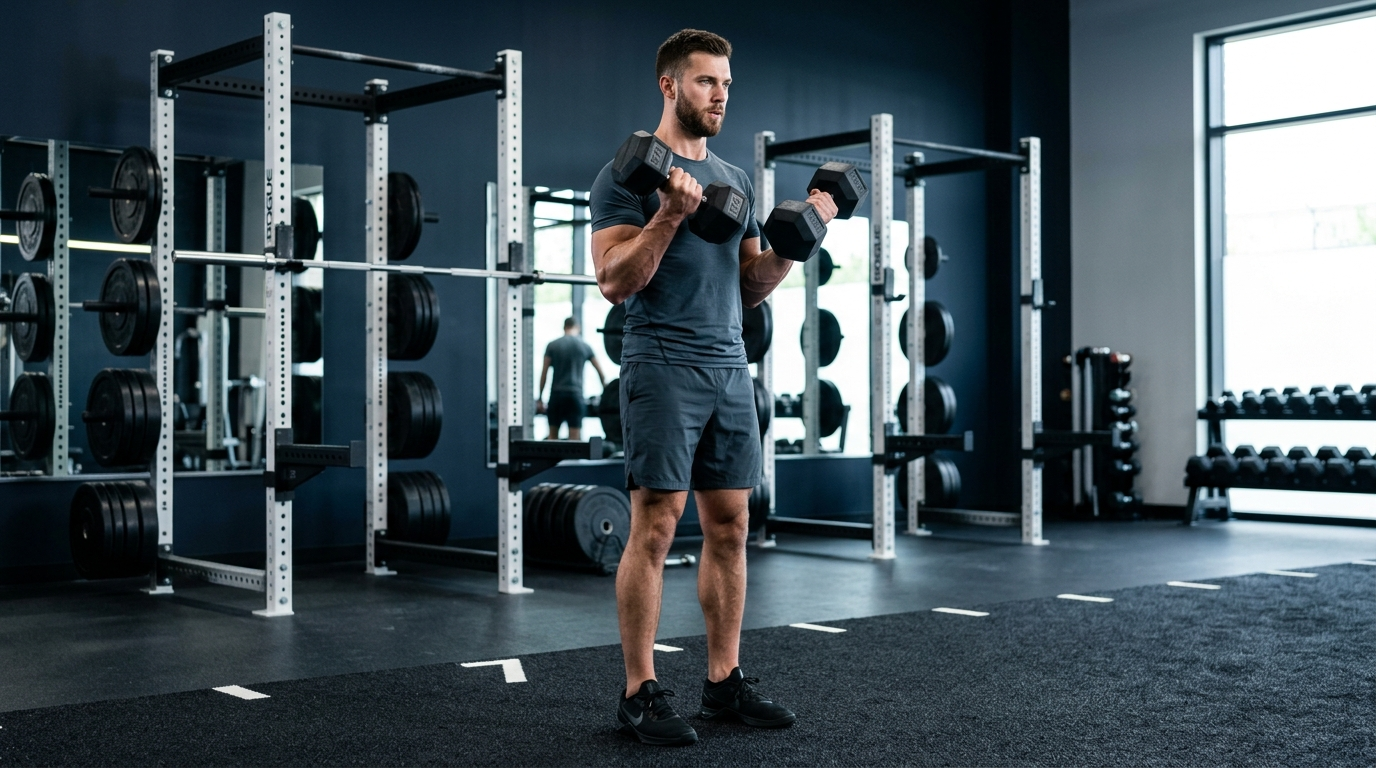
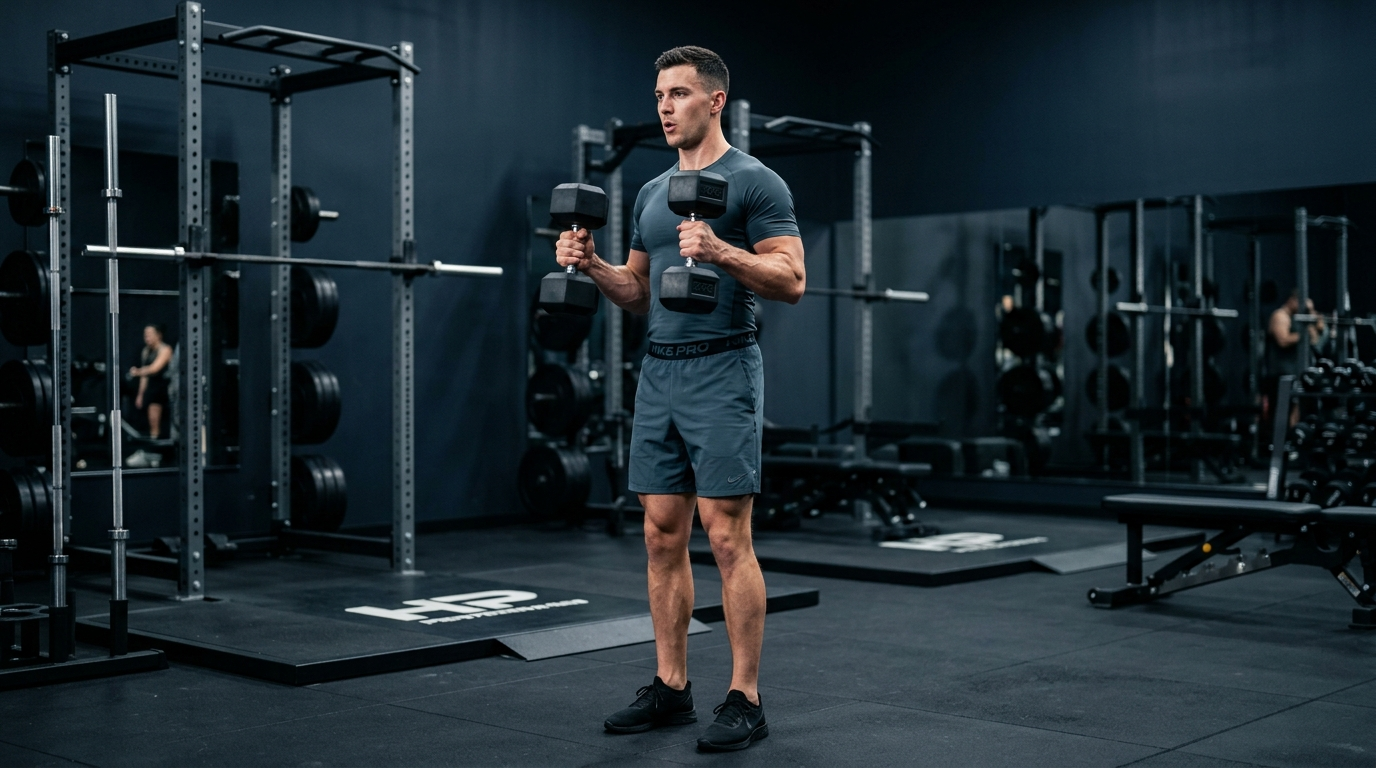
fix(exercise-media): enforce strict neutral grip checkpoints and photo for dumbbell hammer curl

diff --git a/lib/nasm-clinical-movement-cards.ts b/lib/nasm-clinical-movement-cards.ts
@@ -474,6 +474,54 @@ export const NASM_MOVEMENT_PROFILES: Record<string, Partial<NasmClinicalMovement
       'Fully extend arms at bottom for complete muscle stretch.',
     ],
   },
+  'dumbbell hammer curl': {
+    category: 'Arms',
+    optPhase: 'Phase 1 (Stabilization Endurance), Phase 2 (Strength Endurance), Phase 3 (Hypertrophy)',
+    tempo: '2/0/2 or 4/2/1',
+    primeMover: 'Brachioradialis & Brachialis',
+    synergists: ['Biceps Brachii', 'Pronator Teres'],
+    stabilizers: ['Rotator Cuff', 'Anterior Deltoid', 'Wrist Extensors & Flexors (Isometric)', 'Core LPHC'],
+    antagonists: ['Triceps Brachii', 'Anconeus'],
+    kineticCheckpoints: {
+      feetAnkles: 'Hip-width apart, straight and parallel, weight evenly distributed through tripod foot (heels and midfoot).',
+      knees: 'Soft athletic micro-bend (never hyperextended or locked), aligned over second and third toes.',
+      lphc: 'Neutral pelvis and lumbar lordosis; core braced to prevent sagittal trunk sway, swinging, or lumbar hyperextension.',
+      shoulders: 'Scapulae retracted and depressed; elbows pinned firmly against lateral ribcage as stationary hinges; strict neutral grip (palms facing inward toward each other, thumbs pointing straight up toward ceiling, dumbbell heads vertical, strictly zero supination or twisting).',
+      headNeck: 'Neutral cervical spine, chin packed/tucked, gaze directed straight ahead.',
+    },
+    setupInstructions: 'Stand tall with feet hip-width apart and knees soft. Hold a dumbbell in each hand with arms extended at sides in a strict neutral grip—palms facing inward toward each other and dumbbell heads aligned vertically.',
+    executionInstructions: 'Pinning elbows firmly against lateral ribcage, curl dumbbells upward by flexing at the elbows until forearms reach 90°–100°. Maintain strict neutral vertical grip with thumbs pointing up throughout; squeeze peak contraction and lower under controlled 2-second eccentric tempo with zero hip swing.',
+    clinicalCues: [
+      'Maintain strict neutral grip with palms facing inward and thumbs pointing up—strictly zero wrist twisting or supination.',
+      'Dumbbell orientation must remain strictly vertical (top head pointing at ceiling, bottom head at floor).',
+      'Lock elbows against lateral ribcage as fixed hinges; avoid elbow flare or anterior drift into shoulder flexion.',
+      'Brace core and engage glutes to eliminate backward torso sway or momentum.',
+    ],
+  },
+  'hammer curl': {
+    category: 'Arms',
+    optPhase: 'Phase 1 (Stabilization Endurance), Phase 2 (Strength Endurance), Phase 3 (Hypertrophy)',
+    tempo: '2/0/2 or 4/2/1',
+    primeMover: 'Brachioradialis & Brachialis',
+    synergists: ['Biceps Brachii', 'Pronator Teres'],
+    stabilizers: ['Rotator Cuff', 'Anterior Deltoid', 'Wrist Extensors & Flexors (Isometric)', 'Core LPHC'],
+    antagonists: ['Triceps Brachii', 'Anconeus'],
+    kineticCheckpoints: {
+      feetAnkles: 'Hip-width apart, straight and parallel, weight evenly distributed through tripod foot (heels and midfoot).',
+      knees: 'Soft athletic micro-bend (never hyperextended or locked), aligned over second and third toes.',
+      lphc: 'Neutral pelvis and lumbar lordosis; core braced to prevent sagittal trunk sway, swinging, or lumbar hyperextension.',
+      shoulders: 'Scapulae retracted and depressed; elbows pinned firmly against lateral ribcage as stationary hinges; strict neutral grip (palms facing inward toward each other, thumbs pointing straight up toward ceiling, dumbbell heads vertical, strictly zero supination or twisting).',
+      headNeck: 'Neutral cervical spine, chin packed/tucked, gaze directed straight ahead.',
+    },
+    setupInstructions: 'Stand tall with feet hip-width apart and knees soft. Hold a dumbbell in each hand with arms extended at sides in a strict neutral grip—palms facing inward toward each other and dumbbell heads aligned vertically.',
+    executionInstructions: 'Pinning elbows firmly against lateral ribcage, curl dumbbells upward by flexing at the elbows until forearms reach 90°–100°. Maintain strict neutral vertical grip with thumbs pointing up throughout; squeeze peak contraction and lower under controlled 2-second eccentric tempo with zero hip swing.',
+    clinicalCues: [
+      'Maintain strict neutral grip with palms facing inward and thumbs pointing up—strictly zero wrist twisting or supination.',
+      'Dumbbell orientation must remain strictly vertical (top head pointing at ceiling, bottom head at floor).',
+      'Lock elbows against lateral ribcage as fixed hinges; avoid elbow flare or anterior drift into shoulder flexion.',
+      'Brace core and engage glutes to eliminate backward torso sway or momentum.',
+    ],
+  },
   'triceps pushdown': {
     category: 'Arms',
     optPhase: 'Phase 2 (Strength Endurance), Phase 3 (Hypertrophy)',
@@ -869,6 +917,15 @@ export function deriveExerciseHowToSteps(
       '2. Lower hips vertically until front thigh is parallel to floor and rear knee hovers just above ground.',
       '3. Keep front knee tracking directly over middle toes without caving inward.',
       '4. Drive forcefully through the front heel to return to top standing position.',
+    ]
+  }
+
+  if (norm.includes('hammer curl')) {
+    return [
+      '1. Stand tall with feet hip-width apart, holding dumbbells at sides in a strict neutral grip (palms facing inward, thumbs pointing up).',
+      '2. Pin elbows firmly against lateral ribcage as fixed hinges with core braced and spine neutral.',
+      '3. Curl dumbbells upward with dumbbell heads held strictly vertical until forearms reach 90°–100° flexion.',
+      '4. Squeeze brachioradialis and brachialis at peak contraction, then lower under controlled 2-second tempo with zero supination.',
     ]
   }
 

diff --git a/lib/nasm-clinical-movement-cards.test.ts b/lib/nasm-clinical-movement-cards.test.ts
@@ -182,5 +182,19 @@ describe('NASM Clinical Movement Cards Engine — Strict Official Media Rules', 
     const bridgeCard = getNasmClinicalMovementCard('Glute Bridge')
     expect(bridgeCard.imageUrl).toBe('/images/exercises/glute-bridge.jpg')
   })
+
+  it('resolves Dumbbell Hammer Curl with strict neutral grip 5-checkpoint standards and zero supination', () => {
+    const hammer = getNasmClinicalMovementCard('Dumbbell Hammer Curl')
+    expect(hammer.hasOfficialMedia).toBe(true)
+    expect(hammer.imageUrl).toBe('/images/exercises/dumbbell-hammer-curl.jpg')
+    expect(hammer.primeMover).toContain('Brachioradialis')
+    expect(hammer.primeMover).toContain('Brachialis')
+    expect(hammer.kineticCheckpoints.shoulders).toContain('neutral grip')
+    expect(hammer.kineticCheckpoints.shoulders).toContain('zero supination')
+    expect(hammer.kineticCheckpoints.lphc).toContain('Neutral pelvis')
+    expect(hammer.howToSteps[0]).toMatch(/palms facing each other|neutral grip/)
+    expect(hammer.howToSteps.every(s => !s.toLowerCase().includes('supinated'))).toBe(true)
+    expect(hammer.clinicalCues.some(c => c.toLowerCase().includes('zero wrist twisting or supination'))).toBe(true)
+  })
 })
 
